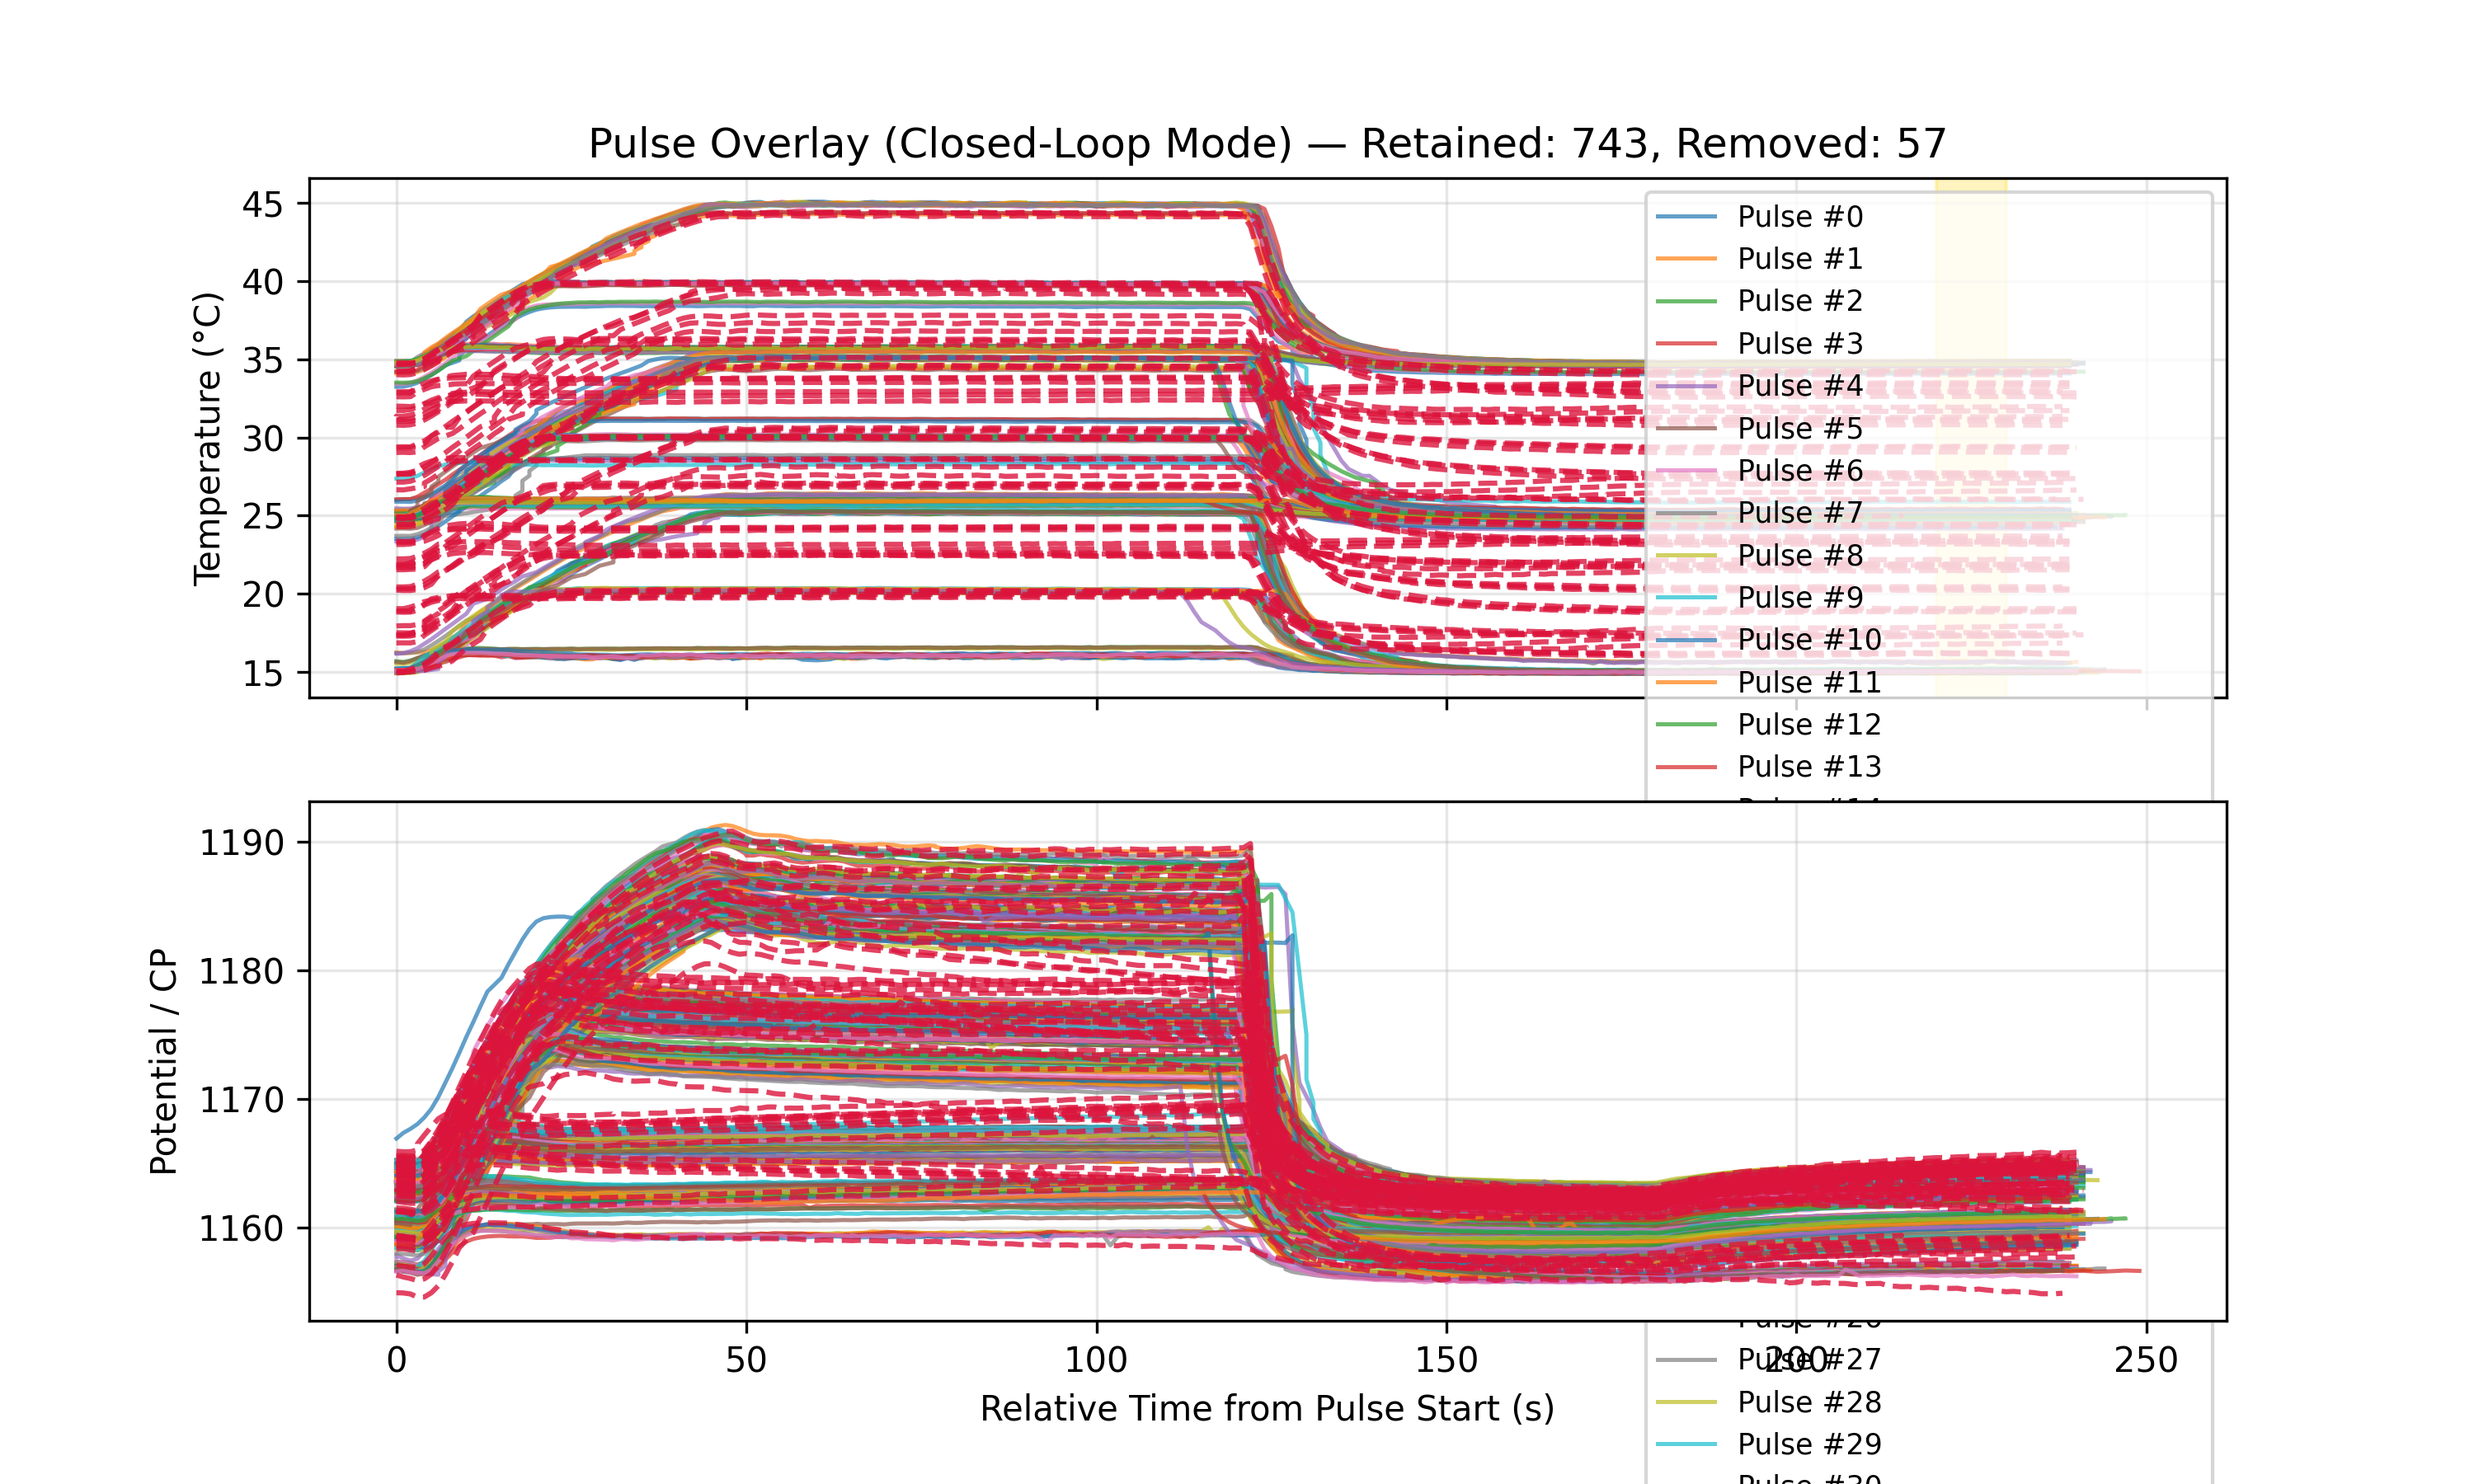
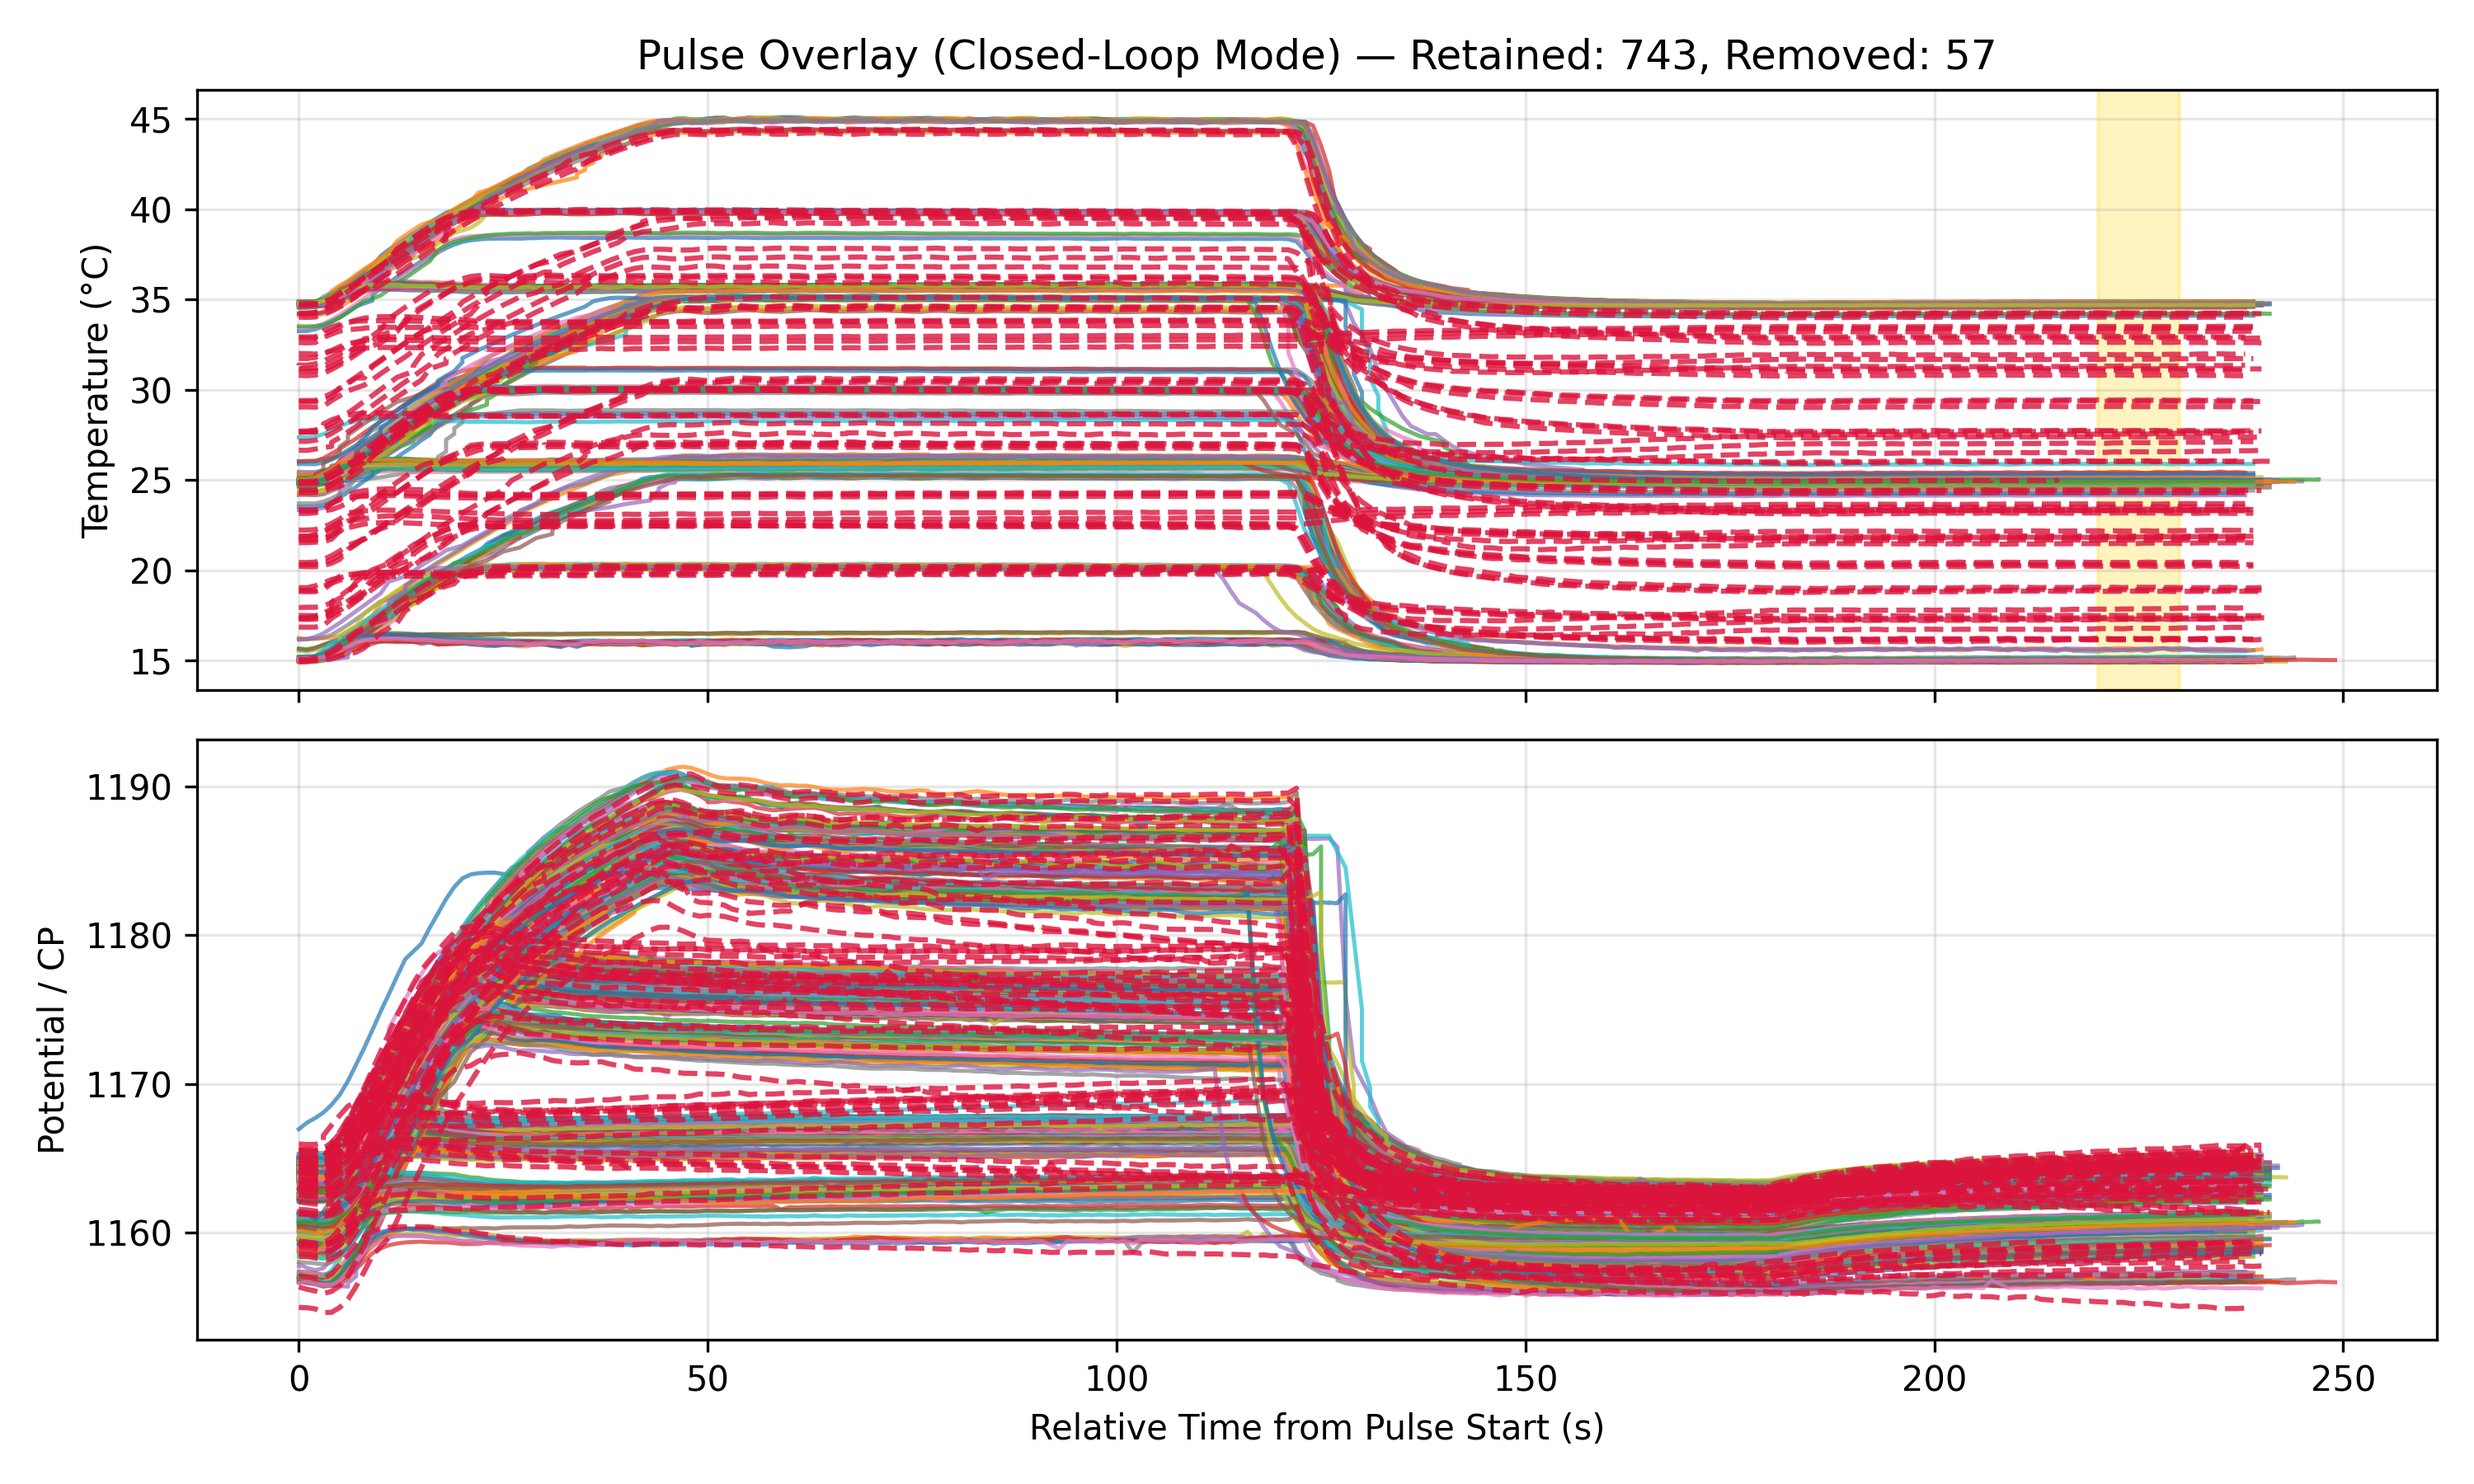
removed legend from removed pulse fig

diff --git a/Figure 2 - Open vs Closed Loop Pulses/pulseParse.py b/Figure 2 - Open vs Closed Loop Pulses/pulseParse.py
@@ -336,7 +336,7 @@ def plot_pulses_overlay(
             alpha=0.25,
             label=f"Ambient Window ({time_window_s[0]}-{time_window_s[1]}s)",
         )
-        ax1.legend(loc="upper right", fontsize="small")
+        #ax1.legend(loc="upper right", fontsize="small")
 
     ax1.set_ylabel("Temperature (°C)")
     ax1.set_title(
